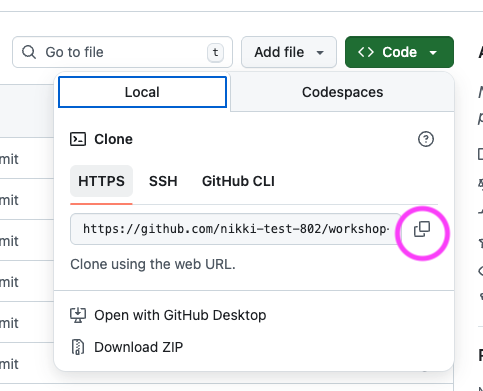
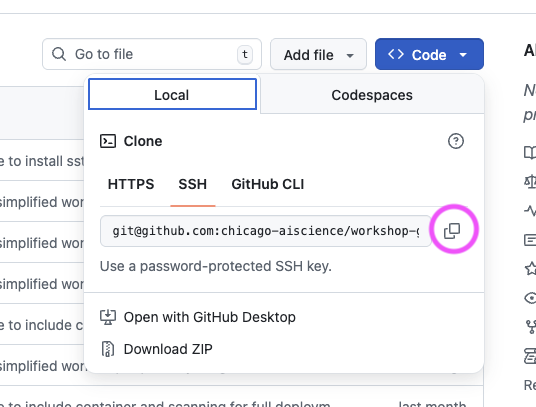
Update cloning to point to SSH link

diff --git a/docs/workshops/workshop_github_actions/workshop-github-actions-l2.md b/docs/workshops/workshop_github_actions/workshop-github-actions-l2.md
@@ -125,7 +125,7 @@ Create a new repository from the template workshop repo. The following steps wer
 
 ![GitHub Actions](./images/l2s0t8.png)
 
-9. Copy the link to clone your new repository by copying the "HTTPS" link from the "<> Code" dropdown
+9. Copy the link to clone your new repository by copying the "SSH" link from the "<> Code" dropdown
 
 ![GitHub Actions](./images/l2s0t9.png)
 
